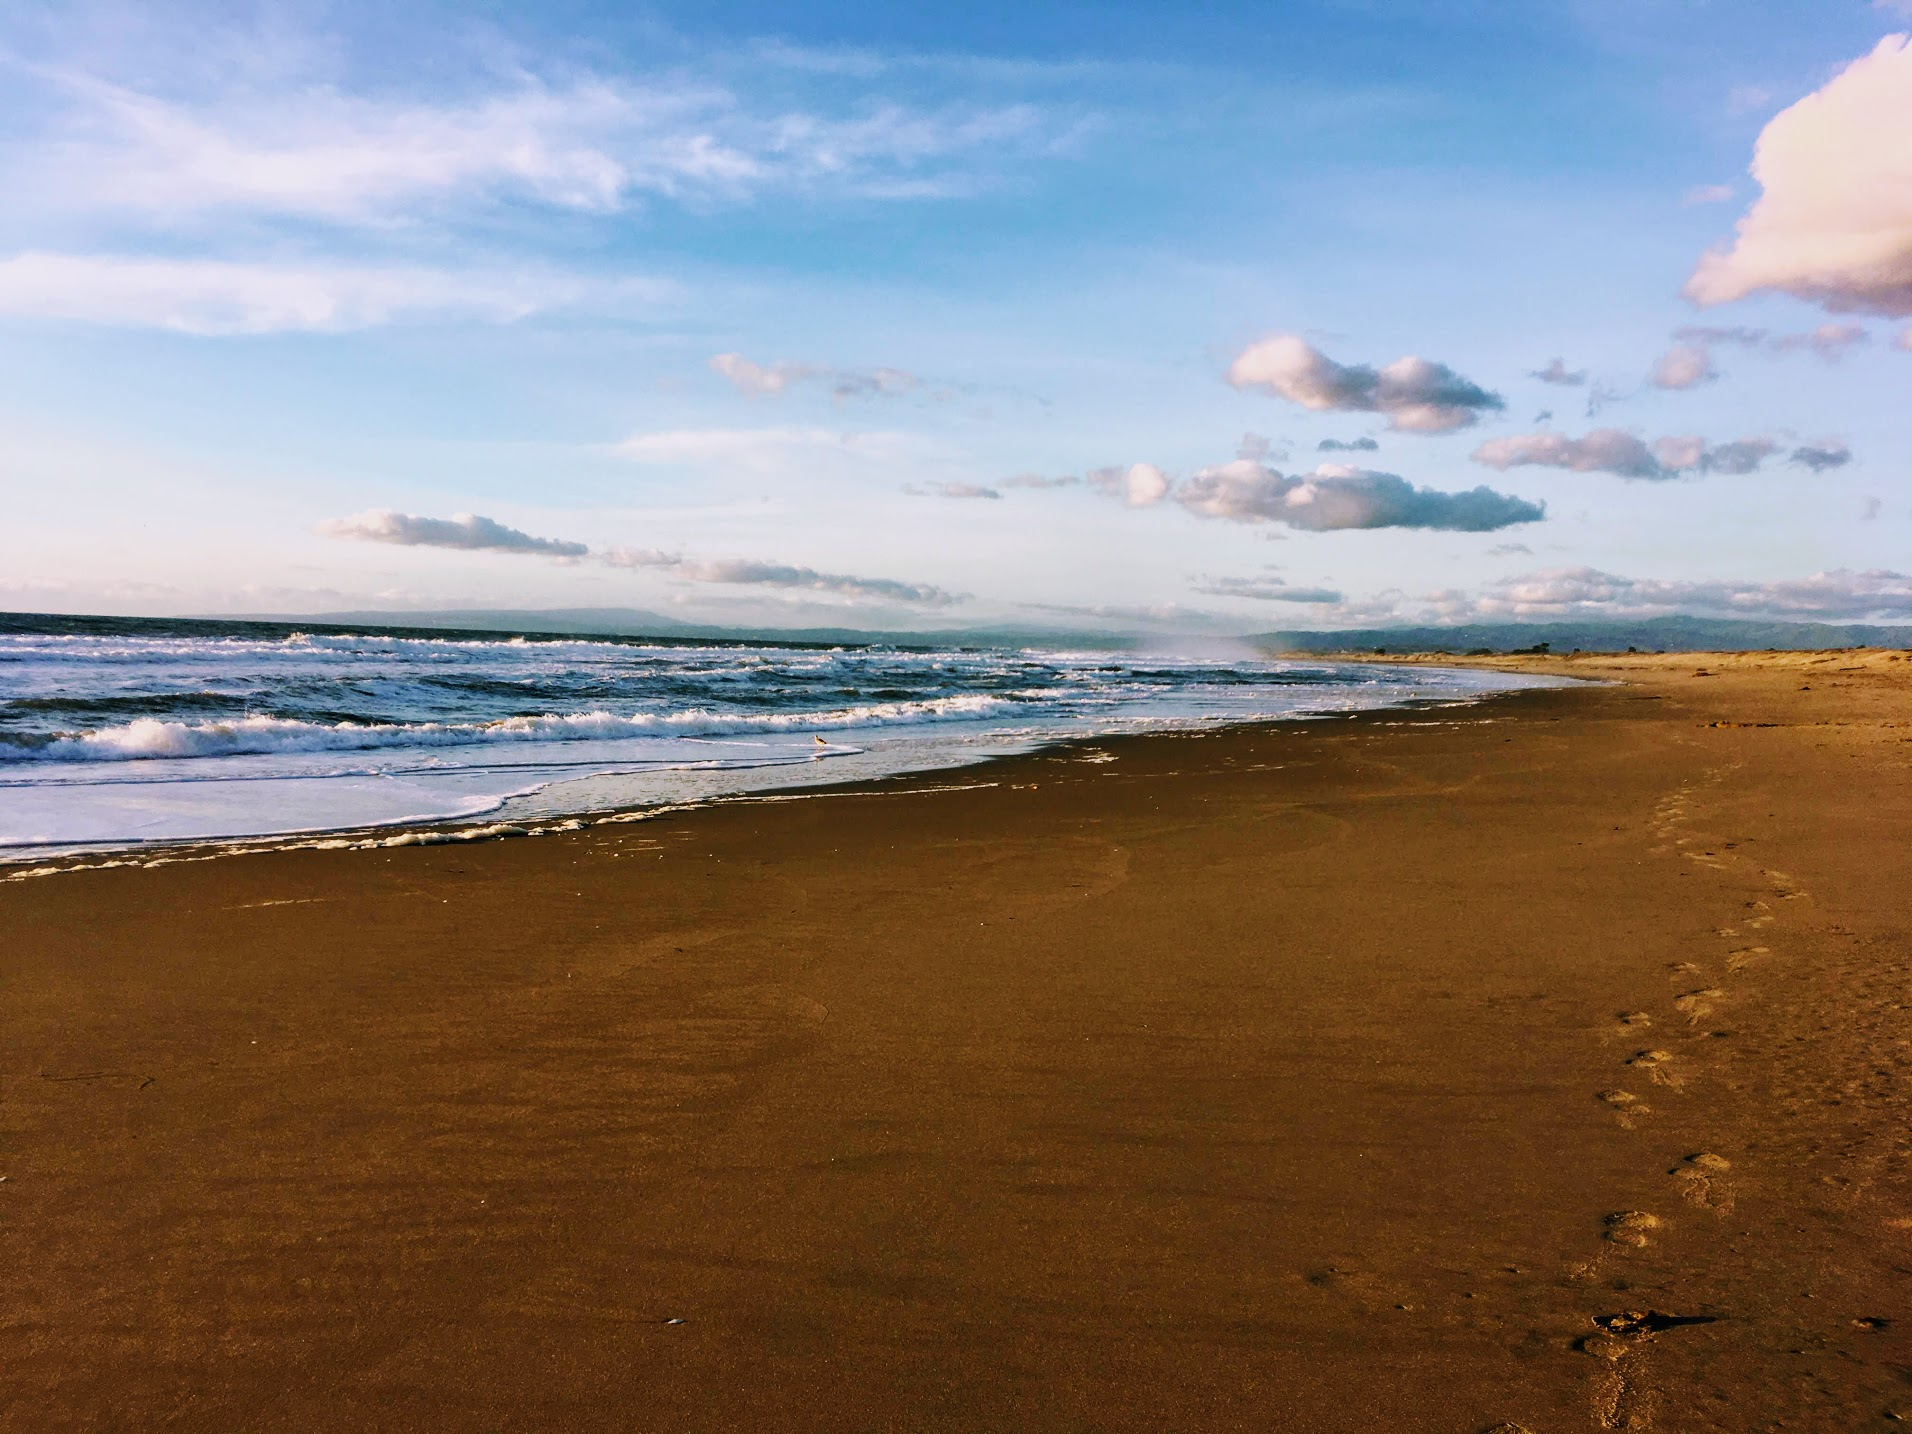
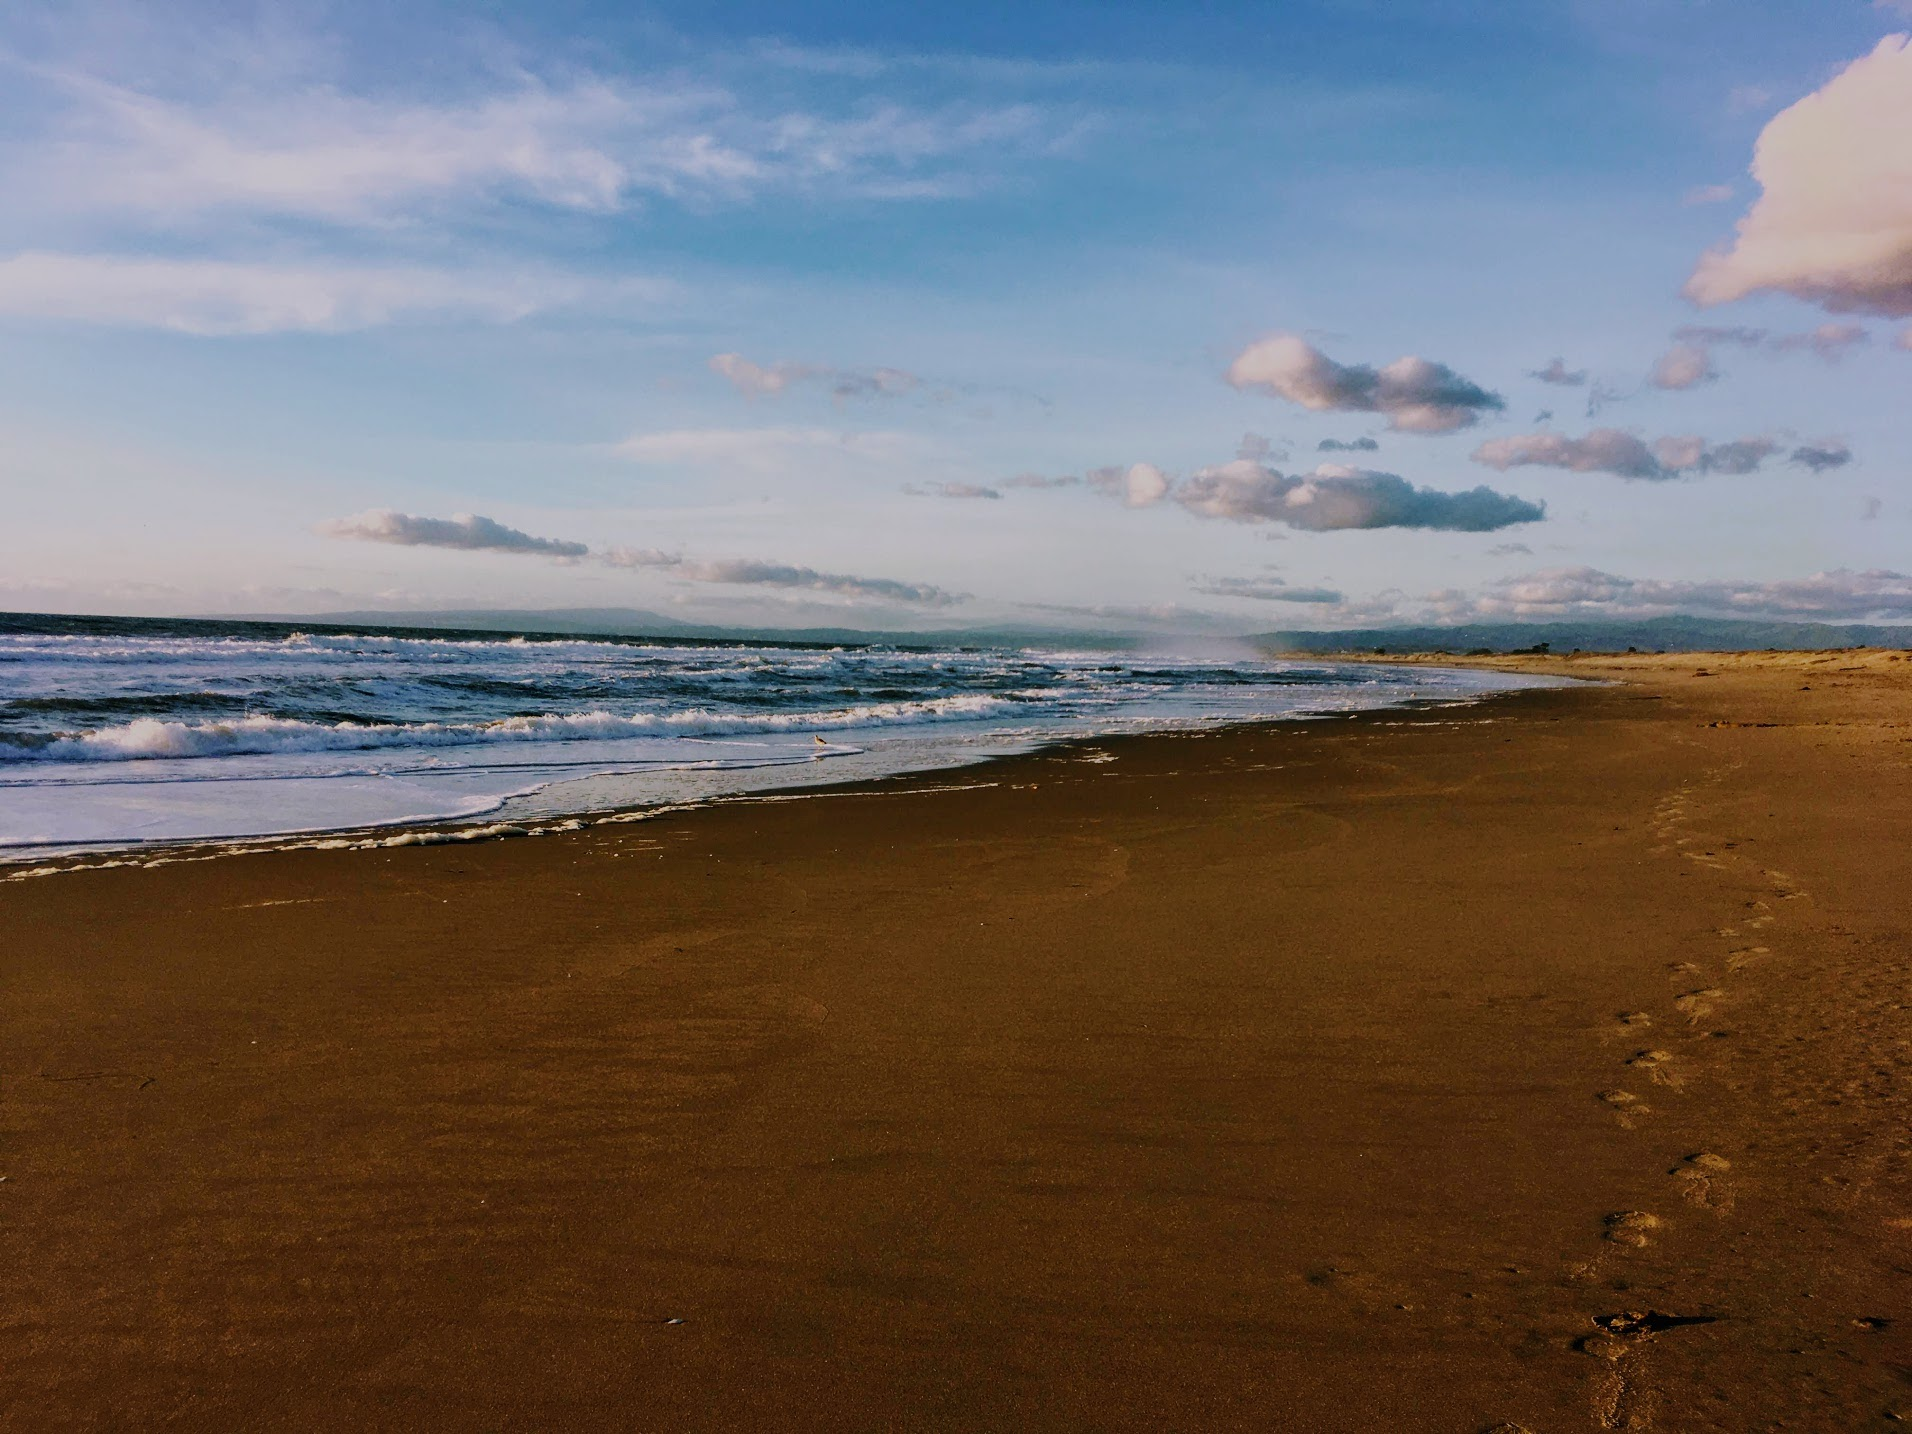
Main page title photo contrast changed. Title enlarged.

diff --git a/css/style.css b/css/style.css
@@ -45,13 +45,13 @@ hr {
 
 .hero h1 {
 	color: #ffffff;
-	font-size: 3rem;
+	font-size: 4rem;
 	padding-top: 22vh;
 }
 
 .hero h2 {
 	color: #ffffff;
-	font-size: 1.5rem;
+	font-size: 2rem;
 }
 
 /*----index page: modal contact form------------------*/
